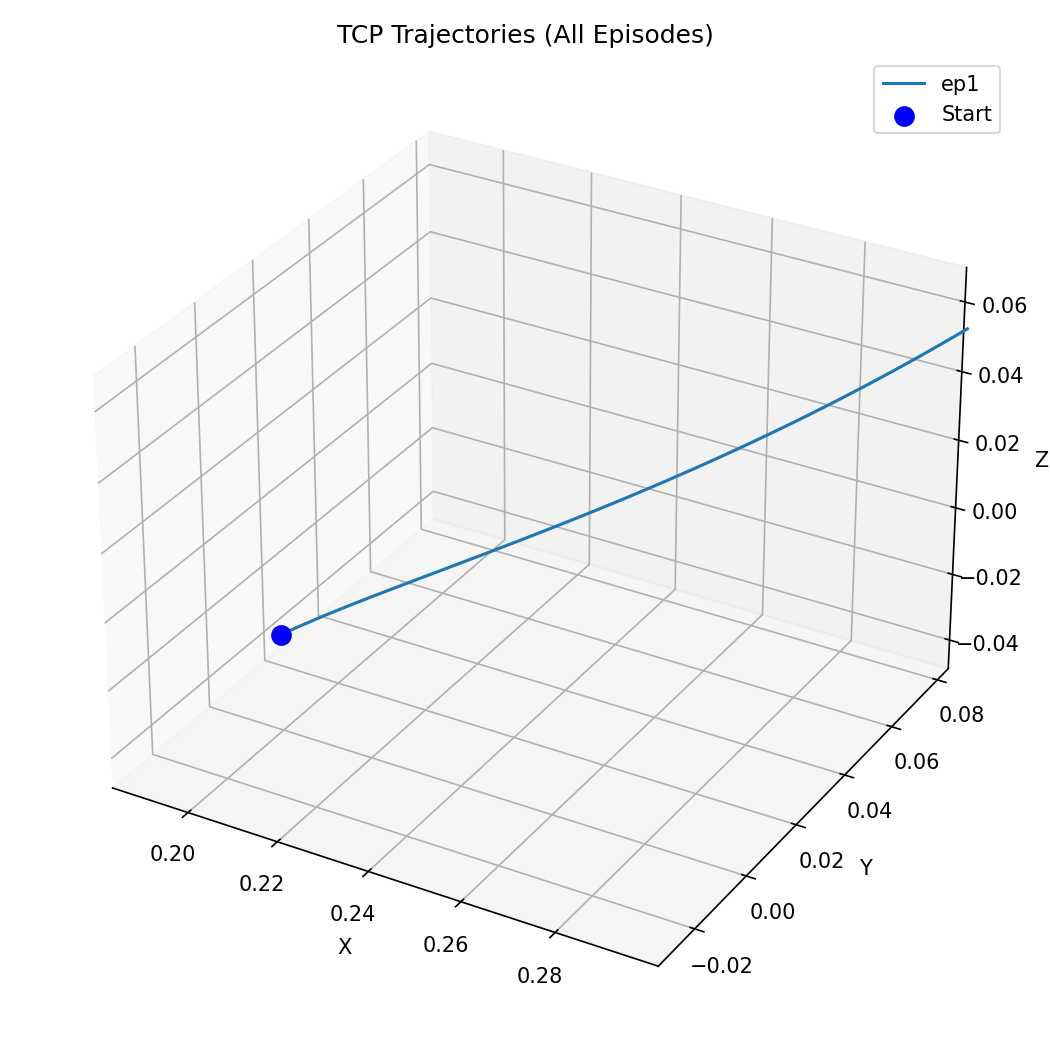
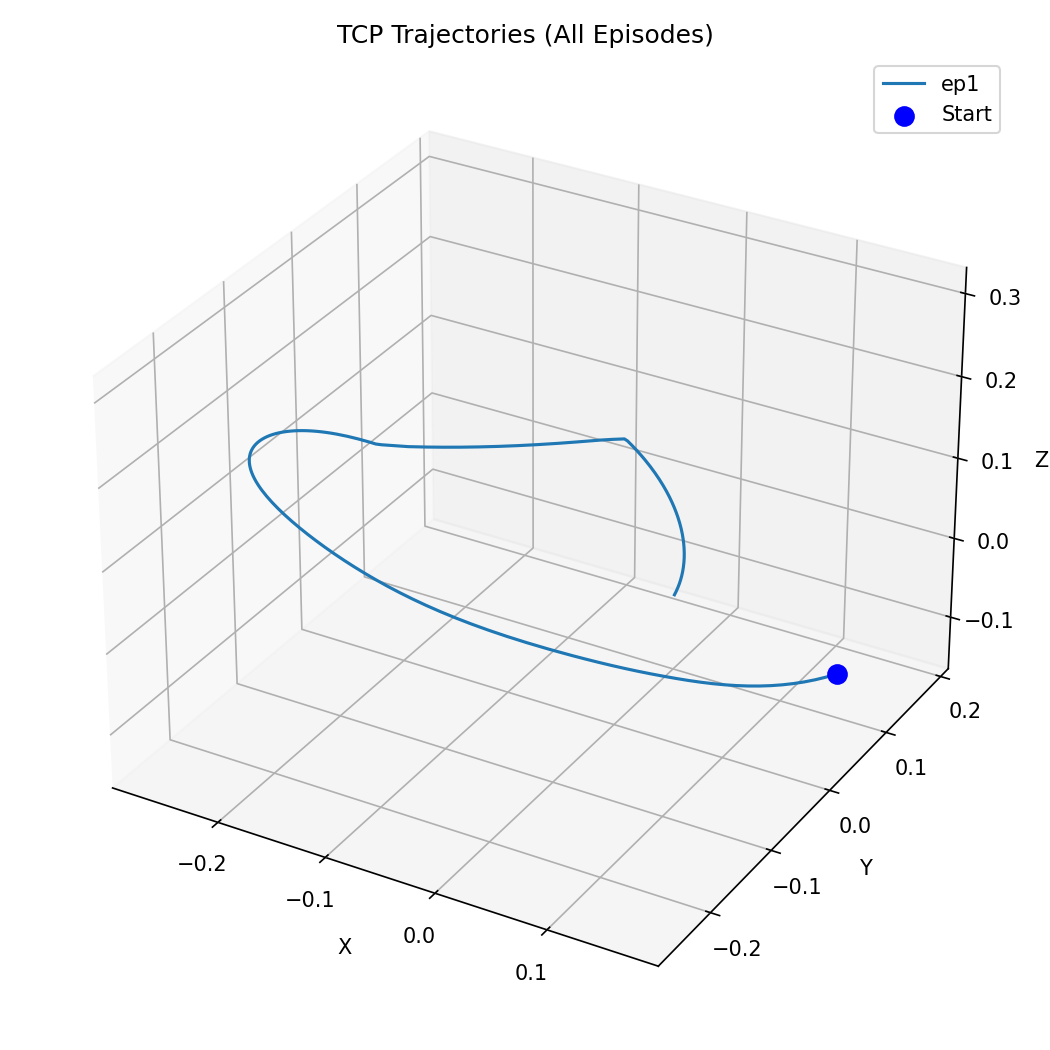
tried camera calibration

diff --git a/wrs/vision/depth_camera/manual_calib.py b/wrs/vision/depth_camera/manual_calib.py
@@ -11,6 +11,7 @@ from abc import ABC, abstractmethod
 import wrs.basis.robot_math as rm
 import wrs.modeling.geometric_model as mgm
 import wrs.robot_sim.robots.robot_interface as ri
+import numpy as np
 
 
 def py2json_data_formatter(data):
@@ -188,7 +189,7 @@ class ManualCalibrationBase(ABC):
             self._plot_node_rbt.detach()
         if self._plot_node_pcd is not None:
             self._plot_node_pcd.detach()
-        self._plot_node_rbt = self._rbt_s.gen_meshmodel()
+        self._plot_node_rbt = self._rbt_s.gen_meshmodel(alpha=0.5)
         self._plot_node_rbt.attach_to(base)
         pcd = self._pcd
         if pcd is not None:
@@ -260,14 +261,36 @@ if __name__ == "__main__":
     import wrs.visualization.panda.world as wd
     from wrs.drivers.devices.realsense.realsense_d400s import RealSenseD400
     from wrs.robot_sim.robots.xarmlite6_wg import x6wg2
+    from wrs.robot_con.xarm_lite6.xarm_lite6_x import XArmLite6X
 
     base = wd.World(cam_pos=rm.vec(2, 0, 1.5), lookat_pos=rm.vec(0, 0, 0))
     rs_pipe = RealSenseD400()
     # the first frame contains no data information
     rs_pipe.get_pcd_texture_depth()
     rs_pipe.get_pcd_texture_depth()
-    # rbtx = XArmLite6X(ip='192.168.1.190', has_gripper=False)
+    rbtx = XArmLite6X(ip='192.168.1.152', has_gripper=False)
     rbt = x6wg2.XArmLite6WG2()
 
-    xarm_mc = XArmLite6ManualCalib(rbt_s=rbt, rbt_x=None, sensor_hdl=rs_pipe)
+    import json
+    import numpy as np
+    import os
+
+    calib_path = "manual_calibration.json"
+
+    if os.path.exists(calib_path):
+        with open(calib_path, "r") as f:
+            init_calib_mat = np.array(json.load(f)["affine_mat"])
+        print("Loaded previous calibration.")
+    else:
+        init_calib_mat = None
+        print("No previous calibration found, using identity.")
+
+    xarm_mc = XArmLite6ManualCalib(
+        rbt_s=rbt,
+        rbt_x=rbtx,
+        sensor_hdl=rs_pipe,
+        init_calib_mat=init_calib_mat
+    )
+
+    # xarm_mc = XArmLite6ManualCalib(rbt_s=rbt, rbt_x=rbtx, sensor_hdl=rs_pipe)
     base.run()

diff --git a/0000_test_programs/surgery_diff/CleanDiffuser/RL_move_straight/evaluate.py b/0000_test_programs/surgery_diff/CleanDiffuser/RL_move_straight/evaluate.py
@@ -99,6 +99,8 @@ def evaluate_and_visualize(model_path, episodes=10, save_fig=True):
         plt.savefig("all_tcp_trajectories.png", dpi=150)
         print("[Saved] all_tcp_trajectories.png")
     plt.show()
+    total_length = np.sum([np.sum(np.linalg.norm(np.diff(tcp_traj, axis=0), axis=1)) for tcp_traj in all_tcp_traj])
+    print(f"Average trajectory length over {episodes} episodes: {total_length/episodes:.4f} meters")
 
     # ==========================================================
     #  图 2 ：关节轨迹（6 个子图），每条线是一个 episode
@@ -181,10 +183,11 @@ def visualize_static_path(base, robot, path):
     base.run()
 
 if __name__ == "__main__":
-    # robot = XArmLite6()
-    # base = wd.World(cam_pos=[2, 0, 1], lookat_pos=[0, 0, 0])
+    robot = XArmLite6()
+    base = wd.World(cam_pos=[2, 0, 1], lookat_pos=[0, 0, 0])
     # visualize_anime_path(base, robot, path=np.load("qpos_traj_ep1.npy"))
-    # # visualize_static_path(base, robot, path=np.load("qpos_traj_ep1.npy"))
+    visualize_static_path(base, robot, path=np.load("qpos_traj_ep1.npy"))
     
-    model_path = "runs/ppo_xarm_1764814909.3672829/checkpoints/agent_iter15_step1966080.pth"
-    evaluate_and_visualize(model_path, episodes=1)
+    # # model_path = "runs/ppo_xarm_1764815273.6780434/checkpoints/agent_iter15_step1966080.pth"
+    # model_path = "runs/ppo_xarm_1764815951.5149322/checkpoints/agent_iter762_step99876864.pth"
+    # evaluate_and_visualize(model_path, episodes=1)

diff --git a/0000_test_programs/surgery_diff/CleanDiffuser/RL_move_straight/ppo.py b/0000_test_programs/surgery_diff/CleanDiffuser/RL_move_straight/ppo.py
@@ -40,7 +40,7 @@ class Args:
     cuda: bool = True
     torch_deterministic: bool = True
 
-    total_timesteps: int = 2_000_000
+    total_timesteps: int = 100_000_000
     learning_rate: float = 3e-4
     num_envs: int = 1024
     num_steps: int = 128
@@ -159,7 +159,7 @@ class RobotsEnv:
         self._single_action_space = type("AS", (), {"shape": (6,)})()
         self._single_observation_space = type("OS", (), {"shape": (15,)})()
 
-        self.max_steps = 100
+        self.max_steps = 300
         self.episode_steps = torch.zeros(num_envs).to(device)
 
         self.qmin = self.robot.robot.robot.jnt_ranges[:,0].to(device)
